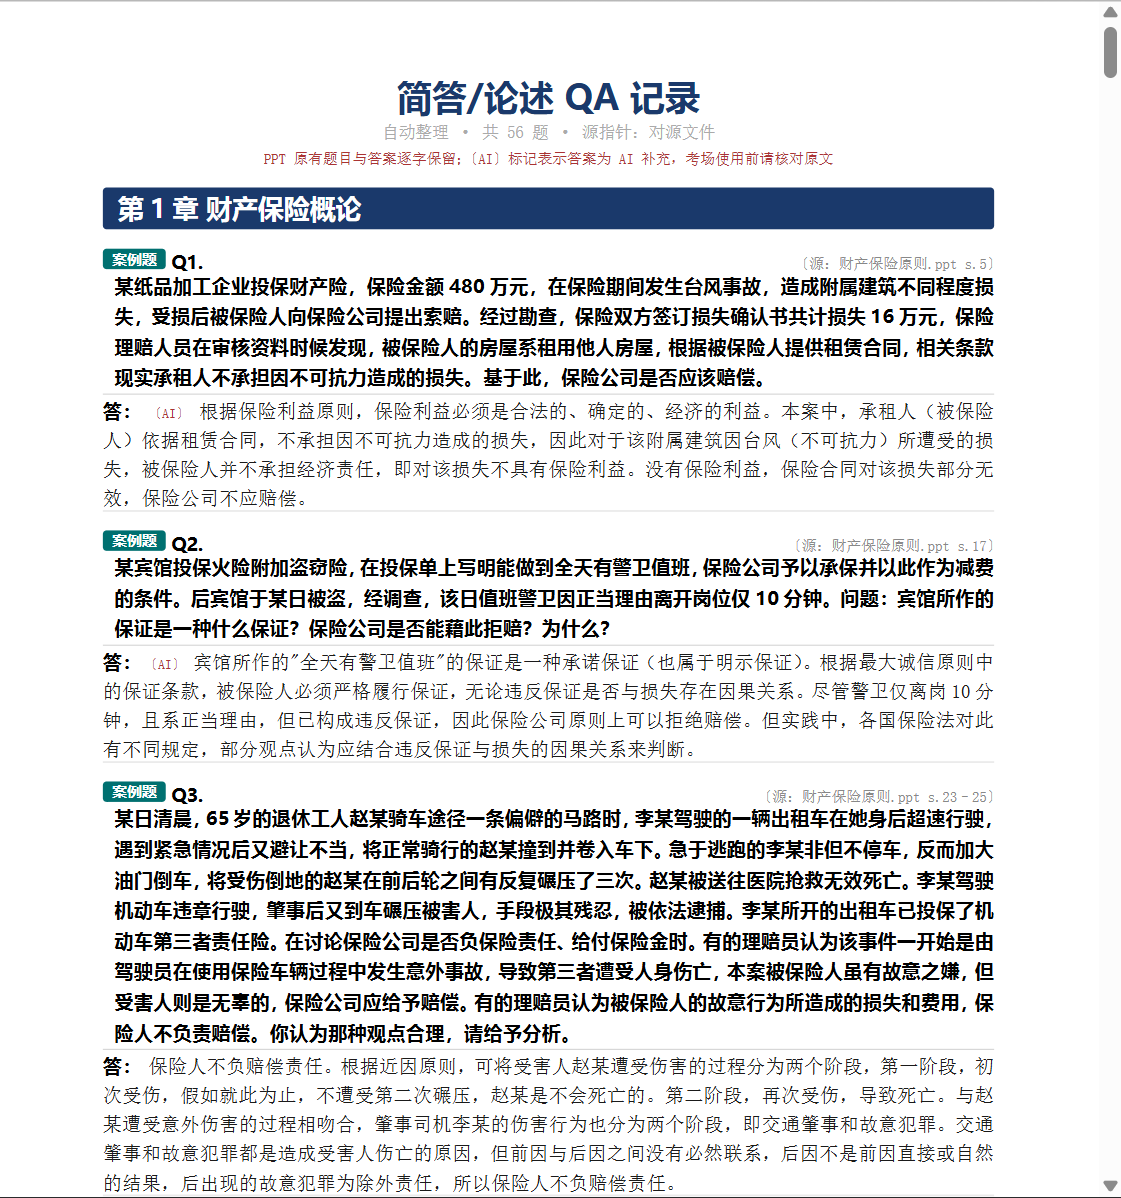
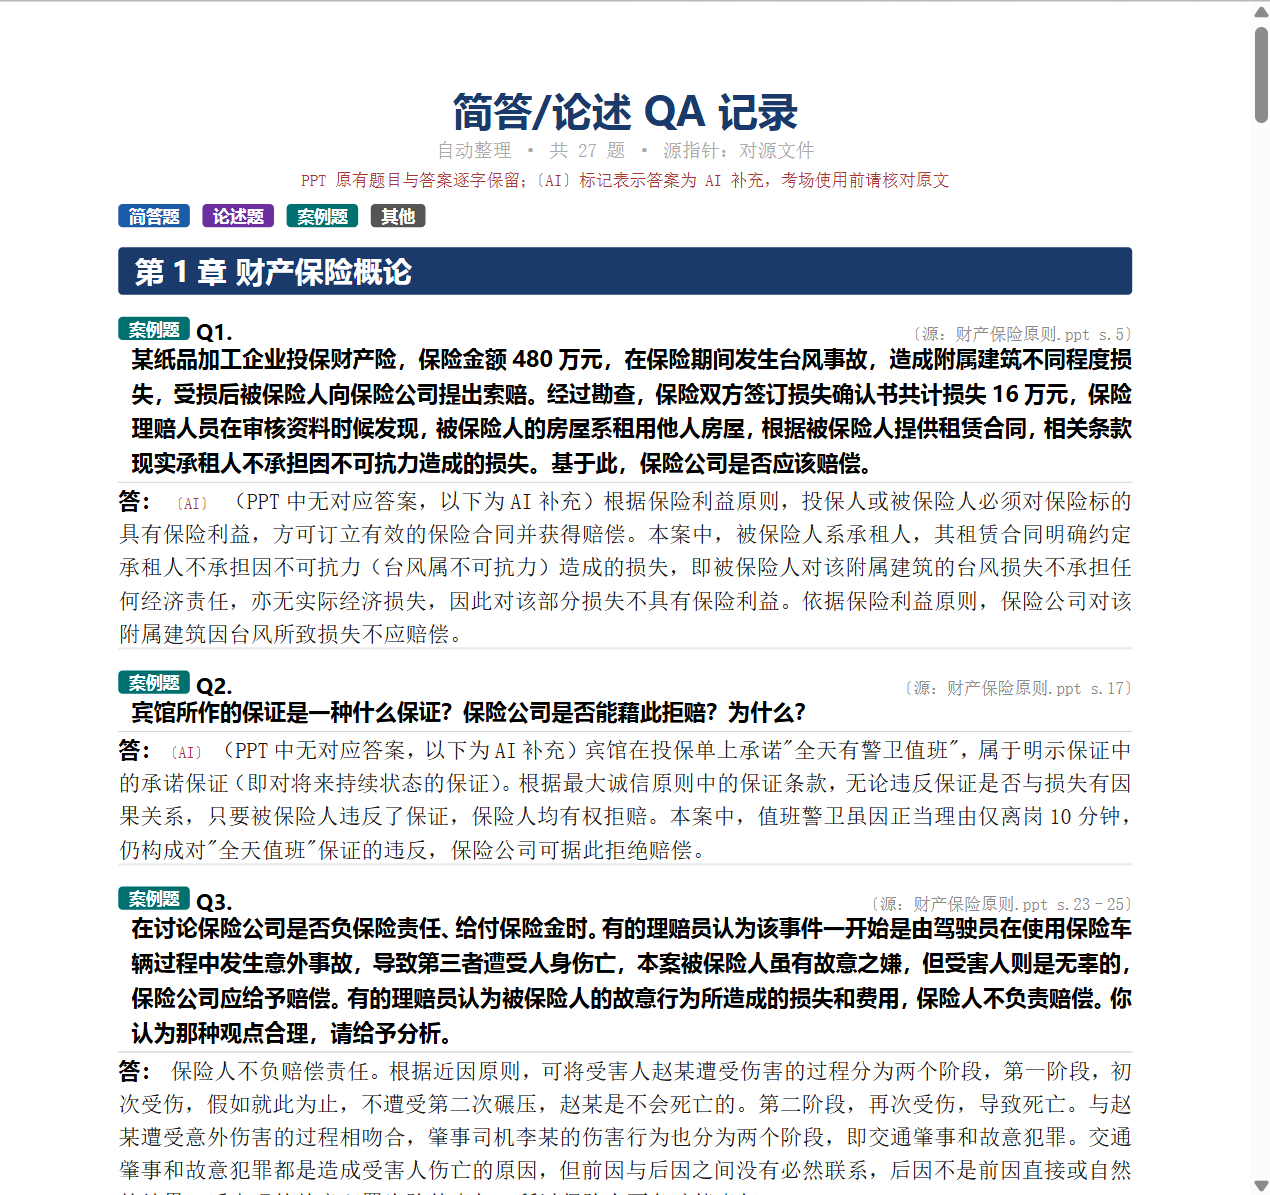
优化简答库

diff --git a/README.md b/README.md
@@ -17,7 +17,7 @@
 | 产物 | 一句话用途 |
 |---|---|
 | 📄 **L0 · 清洗版全集** | 删掉封面/过场等废页，加章节书签，每页盖来源戳——就是你的"原件打印版" |
-| 📘 **L1 · 核心知识手册** | 按章整理的可誊抄条目，内嵌原图（省得手画 ER 图），每节标来源页码 |
+| 📘 **L1 · 核心知识手册** | 按章整理的可誊抄条目，内嵌原图与表格，每节标来源页码 |
 | 📋 **QA · 简答库** | PPT 里出现过的简答/论述/案例题，原题原答逐字整理；只有题没答案时 AI 补充并标 〔AI〕 |
 | 🔑 **L2 · 关键词索引** | 按章整理的专业术语，标高/中/低频，附 PPT 原文定义与页码 |
 | ⚡ **C · 速查卡** | 规则 / 条件 / 流程 / 公式，以"怎么判断、怎么操作"为中心，附来源指针 |
